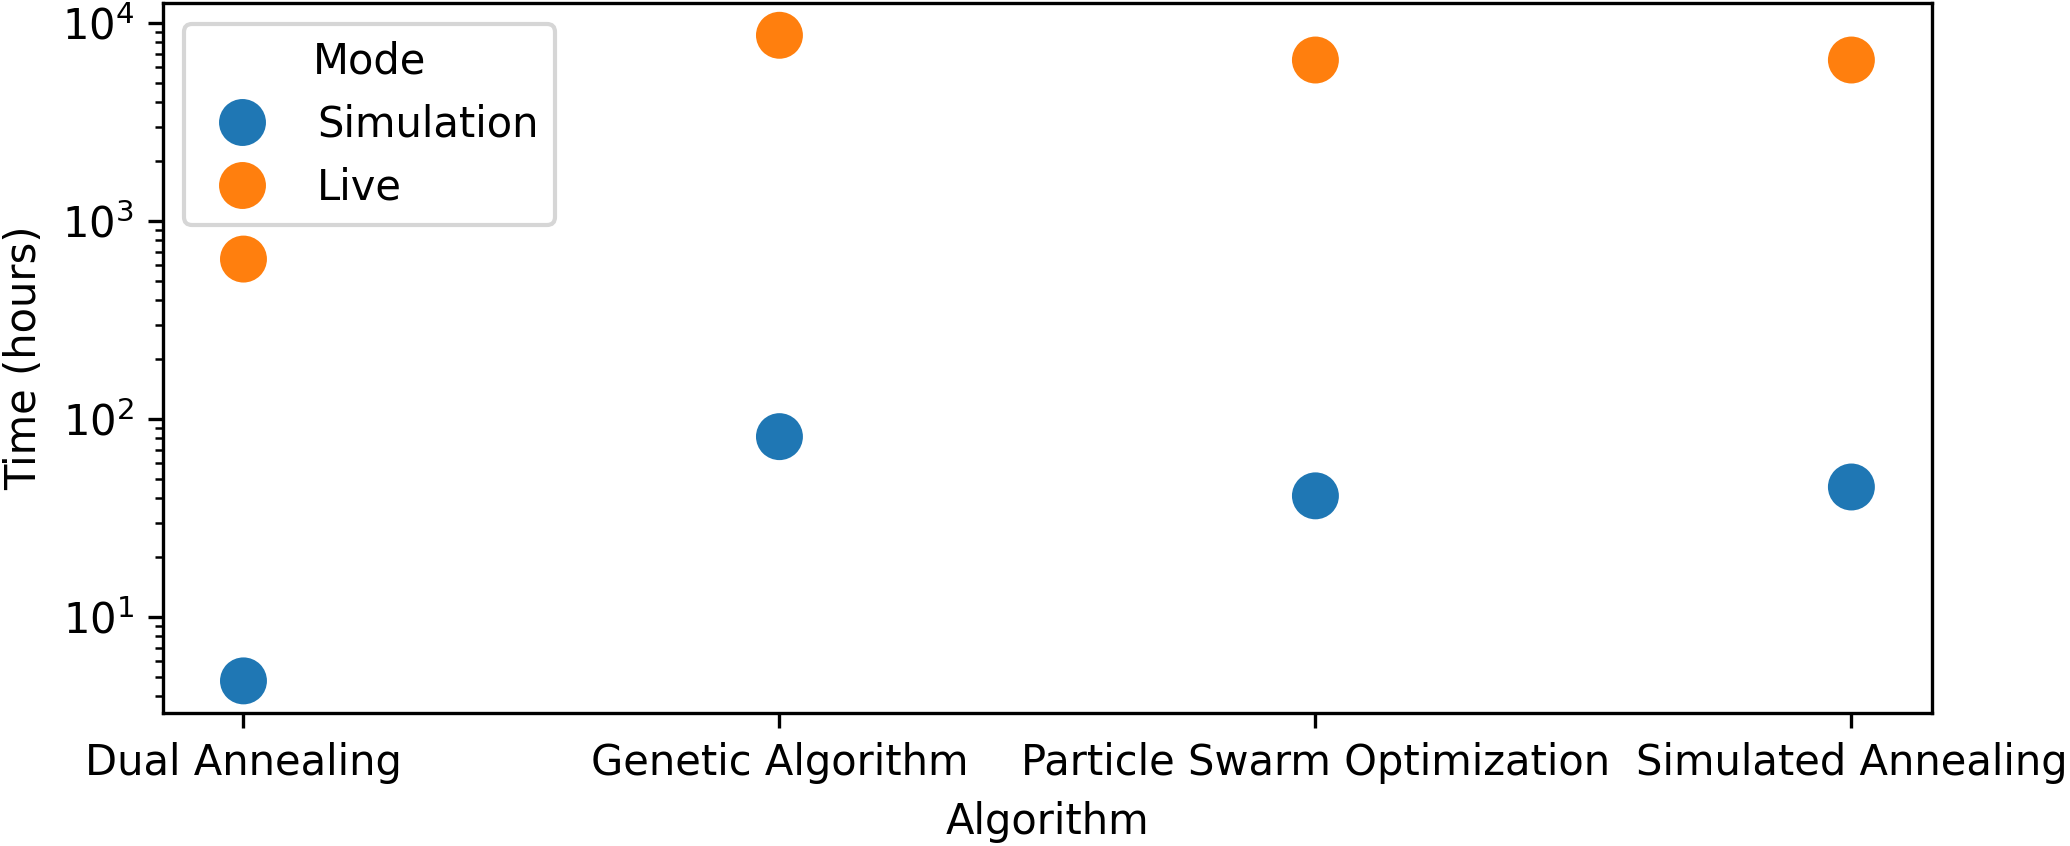
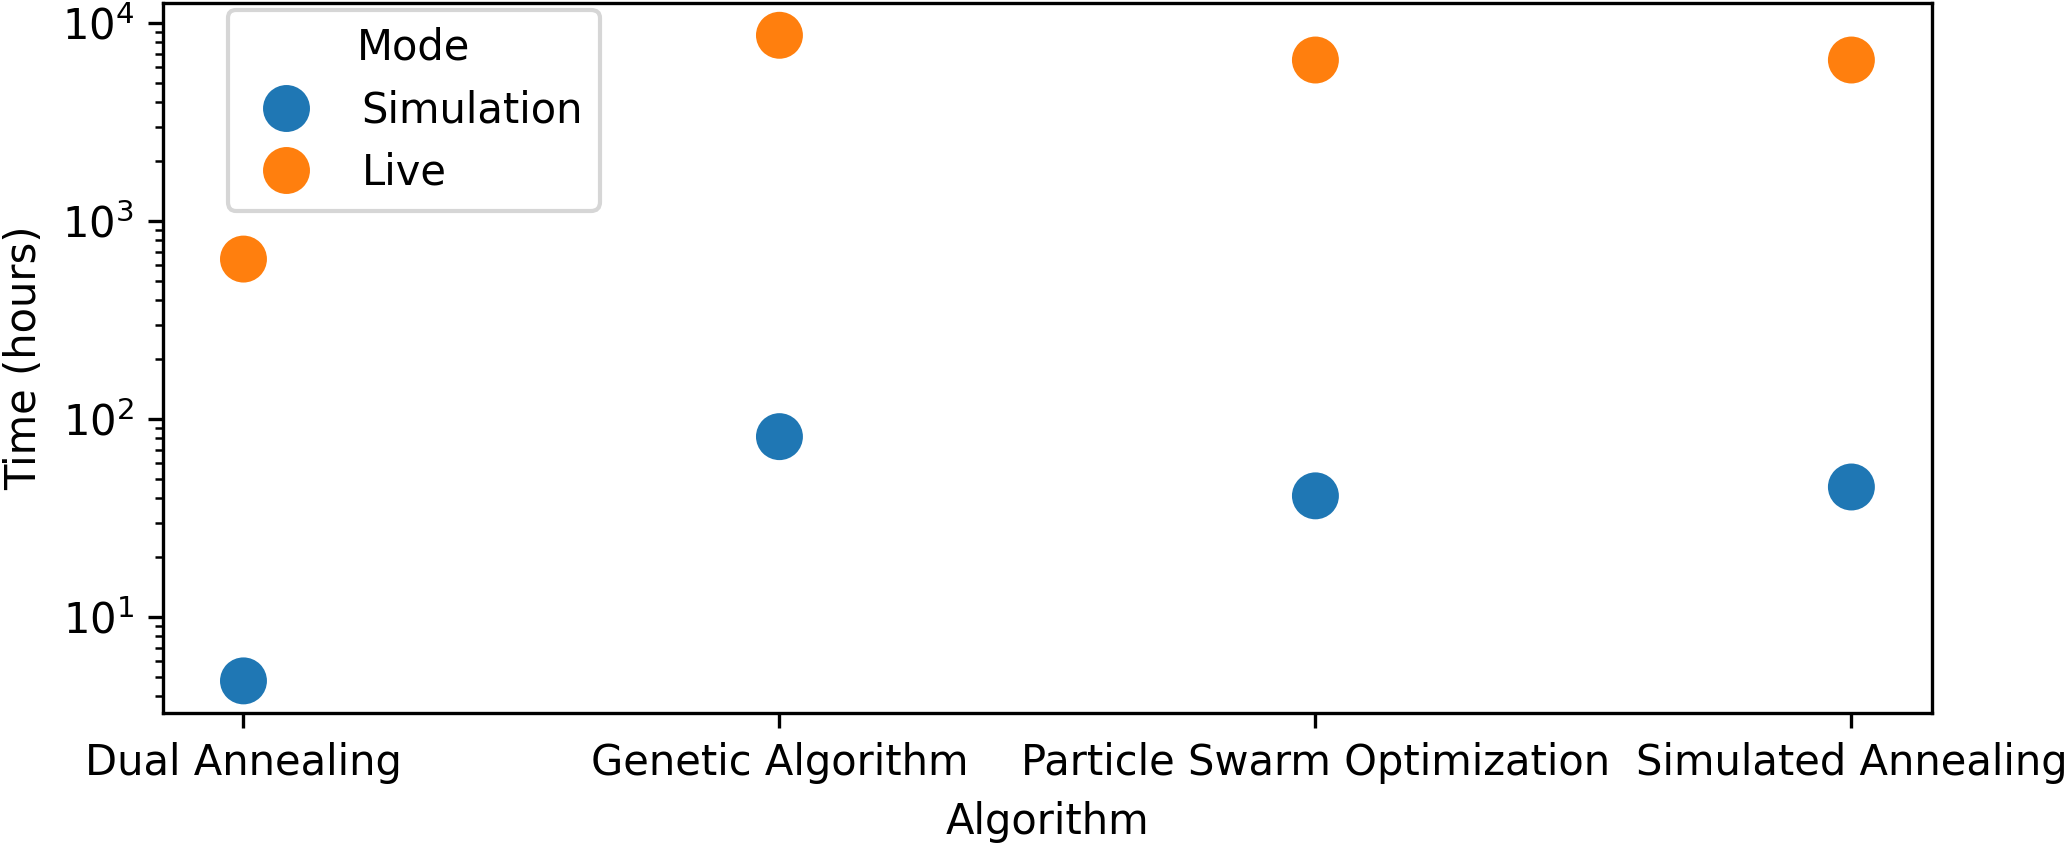
Various minor improvements

Changed region(s): [[0.0928, 0.0, 0.2783, 0.2766]]

diff --git a/time_for_hyperparamtuning.py b/time_for_hyperparamtuning.py
@@ -161,7 +161,7 @@ plt.xlabel('Algorithm')
 plt.ylabel('Time (hours)')
 plt.yscale('log')
 # plt.xticks(rotation=45)
-plt.legend(title='Mode', loc='upper left')
+plt.legend(title='Mode', loc='upper left', bbox_to_anchor=(0.025, 1.02))
 plt.tight_layout()
 plt.savefig("tuning_time_comparison.png", dpi=300, bbox_inches='tight', pad_inches=0.01)
 plt.show()
